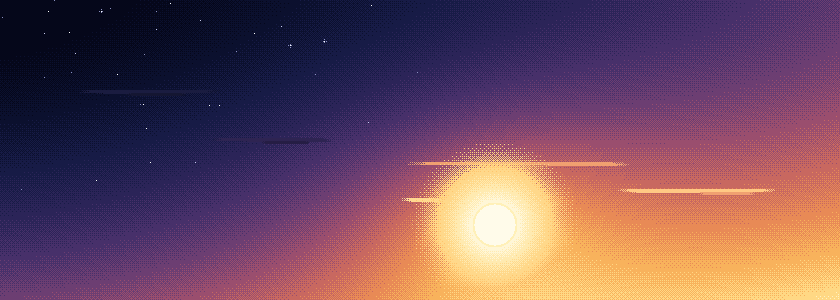
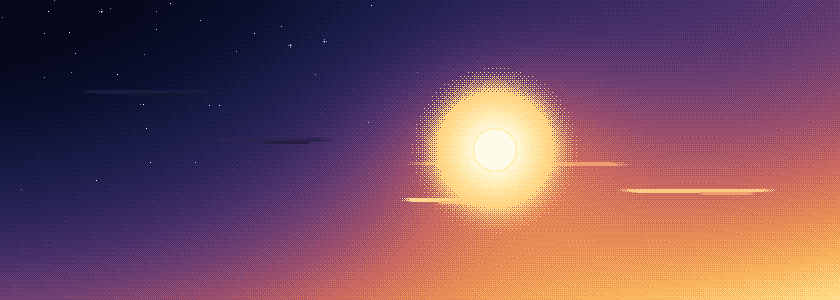
Backdrop: raise the rising sun above the hills so its rays line up

Changed region(s): [[0.1857, 0.0, 0.9905, 1.0], [0.9905, 0.18, 1.0, 0.21]]

diff --git a/src/scenes/backdrop/Backdrop.ts b/src/scenes/backdrop/Backdrop.ts
@@ -62,7 +62,7 @@ const LANDMARK_AT: Record<string, { x: number; dy: number }> = {
 /** The light painted into a sky (native sky pixels, 560x200): effects gather around it. */
 const SKY_LIGHT: Record<string, [number, number]> = {
   deep: [306, 99], // the light hovering over the waters
-  light: [330, 150], // the rising sun
+  light: [330, 100], // the rising sun, clear of the far hills
 };
 
 /** Queues every painted backdrop layer on a loader (call from a scene's preload). */

diff --git a/scripts/art/paint_backdrops.py b/scripts/art/paint_backdrops.py
@@ -1137,7 +1137,7 @@ def paint_light() -> Layers:
         '#05071a', '#0b102e', '#171b46', '#2b2458', '#47306a', '#6c3e72', '#9a4e6e', '#c86860',
         '#e88a56', '#f8b25c', '#ffd884', '#fff2c0',
     )
-    sx, sy = 330, 150
+    sx, sy = 330, 100
     for py in range(L.sky.h):
         v = native(py)
         for px in range(L.sky.w):
